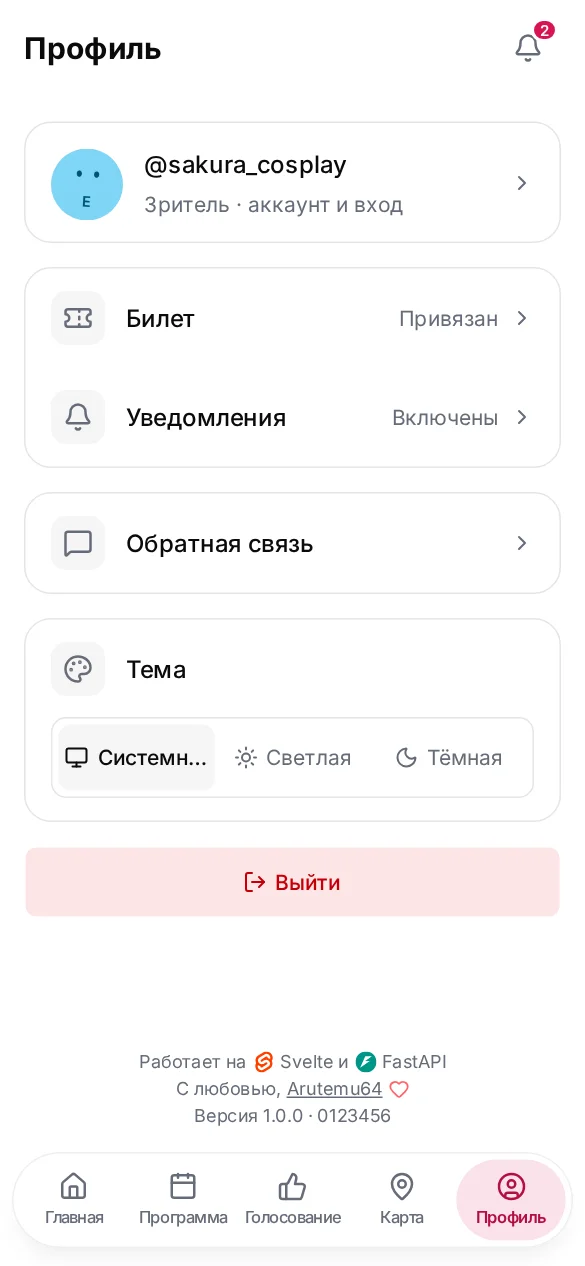
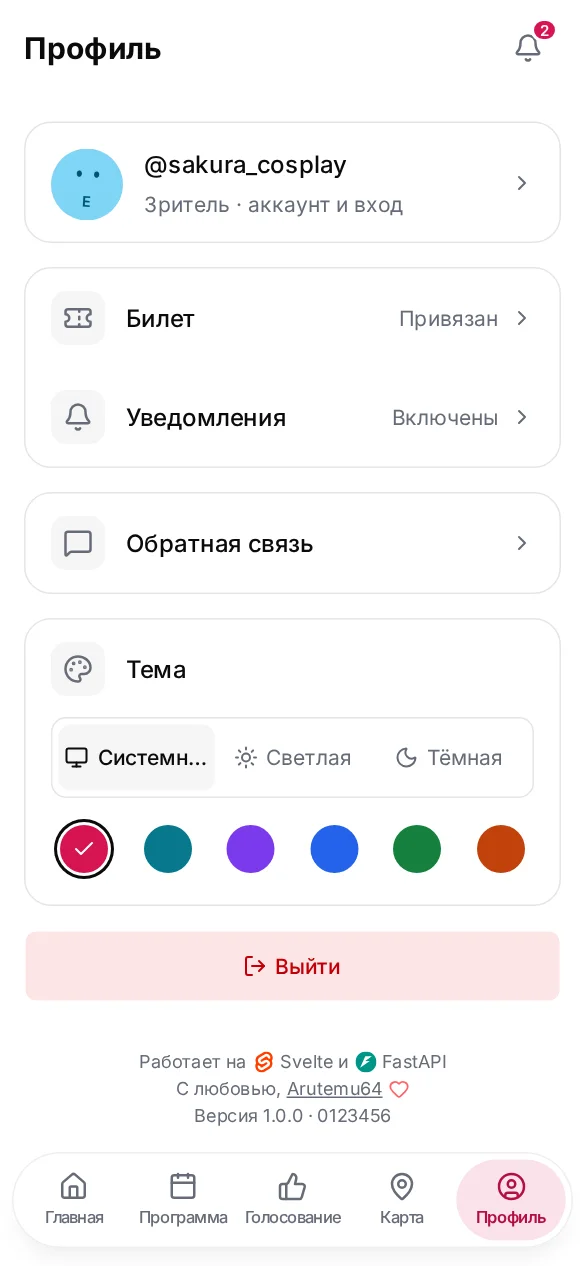
feat(frontend): let users pick an accent color in the profile
Six contrast-checked presets (brand watermelon stays the default) re-point the
--color-primary-* scale via [data-accent]; the choice is device-local, like the
theme mode, and applied before first paint by the boot script.

Claude-Session: https://claude.ai/code/session_012ssPuTGP559nYHido8j2Zd

Changed region(s): [[0.0308, 0.6469, 0.9538, 0.8009]]

diff --git a/frontend/src/lib/services/theme.svelte.ts b/frontend/src/lib/services/theme.svelte.ts
@@ -6,19 +6,40 @@ function parseThemeMode(raw: string): ThemeMode | undefined {
 	return raw === 'light' || raw === 'dark' || raw === 'system' ? raw : undefined;
 }
 
-// Browser-UI tints (address/status bar). Must match app.html: the light value is
-// the watermelon pink, the dark value app.css's dark --background
-// (oklch(0.145 0 0) = #0a0a0a). The inline boot script in app.html seeds
-// <meta name="theme-color"> with the same two values before paint; keep all
-// three in sync.
+// Brand watermelon is the default; the rest re-point app.css's --color-primary-*
+// scale via :root[data-accent]. The ids are mirrored in app.css and in the boot
+// script in app.html, which sets data-accent before first paint.
+export const ACCENTS = [
+	{ id: 'default', label: 'Арбузный' },
+	{ id: 'teal', label: 'Бирюзовый' },
+	{ id: 'violet', label: 'Фиолетовый' },
+	{ id: 'blue', label: 'Синий' },
+	{ id: 'green', label: 'Зелёный' },
+	{ id: 'orange', label: 'Оранжевый' }
+] as const;
+
+export type ThemeAccent = (typeof ACCENTS)[number]['id'];
+
+function parseThemeAccent(raw: string): ThemeAccent | undefined {
+	return ACCENTS.find((accent) => accent.id === raw)?.id;
+}
+
+// Browser-UI tints (address/status bar). The dark value is app.css's dark
+// --background (oklch(0.145 0 0) = #0a0a0a); the light value is the default
+// accent's --primary (watermelon pink), used only until the live --primary can be
+// read. The inline boot script in app.html seeds <meta name="theme-color"> with
+// the dark value before paint; keep all three in sync.
 const THEME_COLOR_LIGHT = '#d61450';
 const THEME_COLOR_DARK = '#0a0a0a';
 
-function applyTheme(mode: ThemeMode): void {
+function applyTheme(mode: ThemeMode, accent: ThemeAccent): void {
 	const isDark =
 		mode === 'dark' ||
 		(mode === 'system' && window.matchMedia('(prefers-color-scheme: dark)').matches);
 	document.documentElement.classList.toggle('dark', isDark);
+
+	if (accent === 'default') delete document.documentElement.dataset.accent;
+	else document.documentElement.dataset.accent = accent;
 
 	// Declare the resolved scheme so Chromium's Auto Dark Theme (Android Chrome/Brave)
 	// doesn't force-darken a light app under a dark OS. Without a color-scheme signal
@@ -33,8 +54,13 @@ function applyTheme(mode: ThemeMode): void {
 	// media-less <meta name="theme-color"> is updated here so a manual toggle that
 	// overrides the system scheme (e.g. dark app on a light OS) tints the browser
 	// chrome to match the app, not the OS.
+	// In light mode the shell wears the accent, read back from the live --primary so
+	// the colour has one source (app.css) instead of a hex table here.
+	const lightColor =
+		getComputedStyle(document.documentElement).getPropertyValue('--primary').trim() ||
+		THEME_COLOR_LIGHT;
 	const meta = document.querySelector('meta[name="theme-color"]');
-	if (meta) meta.setAttribute('content', isDark ? THEME_COLOR_DARK : THEME_COLOR_LIGHT);
+	if (meta) meta.setAttribute('content', isDark ? THEME_COLOR_DARK : lightColor);
 }
 
 class ThemeService {
@@ -42,21 +68,32 @@ class ThemeService {
 	// note below for why surviving login/logout is wanted here, not a leak).
 	#mode = new Persisted<ThemeMode>('theme-mode', 'system', { parse: parseThemeMode });
 
+	#accent = new Persisted<ThemeAccent>('theme-accent', 'default', { parse: parseThemeAccent });
+
 	get mode(): ThemeMode {
 		return this.#mode.current;
 	}
 
+	get accent(): ThemeAccent {
+		return this.#accent.current;
+	}
+
 	constructor() {
-		applyTheme(this.#mode.current);
+		applyTheme(this.#mode.current, this.#accent.current);
 
 		window.matchMedia('(prefers-color-scheme: dark)').addEventListener('change', () => {
-			if (this.#mode.current === 'system') applyTheme('system');
+			if (this.#mode.current === 'system') applyTheme('system', this.#accent.current);
 		});
 	}
 
 	setMode(mode: ThemeMode): void {
 		this.#mode.current = mode;
-		applyTheme(mode);
+		applyTheme(mode, this.#accent.current);
+	}
+
+	setAccent(accent: ThemeAccent): void {
+		this.#accent.current = accent;
+		applyTheme(this.#mode.current, accent);
 	}
 }
 

diff --git a/frontend/src/app.css b/frontend/src/app.css
@@ -339,6 +339,93 @@
 }
 
 /*
+ * Profile accent presets. The brand watermelon stays the default (no attribute);
+ * an accent re-points the whole --color-primary-* scale, so the semantic --primary
+ * and every hard-coded primary-NNN utility follow it together. Overridden on
+ * [data-accent] rather than inside @theme because @theme variables are plain
+ * :root custom properties that a more specific selector can re-declare. The
+ * selector is not tied to :root so a swatch in the picker can carry its own
+ * data-accent and preview a preset while another one is active.
+ * https://github.com/tailwindlabs/tailwindcss/discussions/18560
+ *
+ * Invariant every preset keeps: shade 600 is the light-theme fill (white text,
+ * >=4.5:1) and 400 the dark-theme tint (clears AA on the dark surface and takes
+ * dark text). Green and orange are shifted one step darker to hold it, since
+ * their stock 600 is only ~3.3:1 against white. 'default' sets no attribute on
+ * <html>; its block exists only so the picker's brand swatch keeps its own colour.
+ *
+ * The ids are mirrored in theme.svelte.ts (ACCENTS) and the boot script in app.html.
+ */
+[data-accent='default'] {
+	--color-primary-600: #d61450;
+}
+
+[data-accent='teal'] {
+	--color-primary-50: var(--color-secondary-50);
+	--color-primary-100: var(--color-secondary-100);
+	--color-primary-200: var(--color-secondary-200);
+	--color-primary-300: var(--color-secondary-300);
+	--color-primary-400: var(--color-secondary-400);
+	--color-primary-500: var(--color-secondary-500);
+	--color-primary-600: var(--color-secondary-600);
+	--color-primary-700: var(--color-secondary-700);
+	--color-primary-800: var(--color-secondary-800);
+	--color-primary-900: var(--color-secondary-900);
+}
+
+[data-accent='violet'] {
+	--color-primary-50: #f5f3ff;
+	--color-primary-100: #ede9fe;
+	--color-primary-200: #ddd6fe;
+	--color-primary-300: #c4b5fd;
+	--color-primary-400: #a78bfa;
+	--color-primary-500: #8b5cf6;
+	--color-primary-600: #7c3aed;
+	--color-primary-700: #6d28d9;
+	--color-primary-800: #5b21b6;
+	--color-primary-900: #4c1d95;
+}
+
+[data-accent='blue'] {
+	--color-primary-50: #eff6ff;
+	--color-primary-100: #dbeafe;
+	--color-primary-200: #bfdbfe;
+	--color-primary-300: #93c5fd;
+	--color-primary-400: #60a5fa;
+	--color-primary-500: #3b82f6;
+	--color-primary-600: #2563eb;
+	--color-primary-700: #1d4ed8;
+	--color-primary-800: #1e40af;
+	--color-primary-900: #1e3a8a;
+}
+
+[data-accent='green'] {
+	--color-primary-50: #f0fdf4;
+	--color-primary-100: #dcfce7;
+	--color-primary-200: #bbf7d0;
+	--color-primary-300: #86efac;
+	--color-primary-400: #4ade80;
+	--color-primary-500: #22c55e;
+	--color-primary-600: #15803d;
+	--color-primary-700: #166534;
+	--color-primary-800: #14532d;
+	--color-primary-900: #052e16;
+}
+
+[data-accent='orange'] {
+	--color-primary-50: #fff7ed;
+	--color-primary-100: #ffedd5;
+	--color-primary-200: #fed7aa;
+	--color-primary-300: #fdba74;
+	--color-primary-400: #fb923c;
+	--color-primary-500: #f97316;
+	--color-primary-600: #c2410c;
+	--color-primary-700: #9a3412;
+	--color-primary-800: #7c2d12;
+	--color-primary-900: #431407;
+}
+
+/*
  * Page transitions, started by onNavigate in (app)/+layout.svelte on phones only,
  * which sets data-nav-transition for the run (direction: navTransition.ts). Material's
  * shared-axis pattern, kept inside DESIGN.md's 250ms: the old page fades out fast,

diff --git a/frontend/src/routes/(app)/profile/components/AccentPicker.svelte b/frontend/src/routes/(app)/profile/components/AccentPicker.svelte
@@ -1,0 +1,34 @@
+<script lang="ts">
+	import { Check } from '@lucide/svelte';
+
+	import { ACCENTS, getThemeService } from '#lib/services/theme.svelte.js';
+
+	const theme = getThemeService();
+</script>
+
+<div class="flex w-full justify-between" role="group" aria-label="Цвет акцента">
+	{#each ACCENTS as { id, label } (id)}
+		<button
+			type="button"
+			aria-pressed={theme.accent === id}
+			aria-label={label}
+			title={label}
+			onclick={() => theme.setAccent(id)}
+			class="flex size-11 items-center justify-center rounded-full"
+		>
+			<!-- The swatch carries its own data-accent so it previews its preset
+				whichever one is active; see app.css. -->
+			<span
+				data-accent={id}
+				class={[
+					'flex size-8 items-center justify-center rounded-full bg-primary-600 text-white',
+					theme.accent === id && 'ring-2 ring-foreground ring-offset-2 ring-offset-background'
+				]}
+			>
+				{#if theme.accent === id}
+					<Check class="size-4" aria-hidden="true" />
+				{/if}
+			</span>
+		</button>
+	{/each}
+</div>

diff --git a/frontend/src/routes/(app)/profile/+page.svelte b/frontend/src/routes/(app)/profile/+page.svelte
@@ -27,6 +27,7 @@
 	import { isOrg } from '#lib/utils/permissions.js';
 	import { getRoleLabel } from '#lib/utils/users.js';
 
+	import AccentPicker from './components/AccentPicker.svelte';
 	import DiagnosticsDialog from './components/DiagnosticsDialog.svelte';
 	import LogoutButton from './components/LogoutButton.svelte';
 	import MenuLink from './components/MenuLink.svelte';
@@ -197,8 +198,9 @@
 				<Item.Content>
 					<Item.Title class="text-base">Тема</Item.Title>
 				</Item.Content>
-				<Item.Footer>
+				<Item.Footer class="flex-col items-stretch gap-3">
 					<ThemeToggle />
+					<AccentPicker />
 				</Item.Footer>
 			</Item.Root>
 		</MenuGroup>

diff --git a/frontend/src/app.html b/frontend/src/app.html
@@ -76,6 +76,15 @@
 				try {
 					m = localStorage.getItem('theme-mode');
 				} catch (e) {}
+				// Accent preset (profile > Тема). Ids mirror ACCENTS in theme.svelte.ts and
+				// the :root[data-accent] blocks in app.css; an unknown value is ignored.
+				var accent = null;
+				try {
+					accent = localStorage.getItem('theme-accent');
+				} catch (e) {}
+				if (['teal', 'violet', 'blue', 'green', 'orange'].indexOf(accent) !== -1) {
+					document.documentElement.dataset.accent = accent;
+				}
 				var isDark =
 					m === 'dark' ||
 					(m !== 'light' && window.matchMedia('(prefers-color-scheme: dark)').matches);
